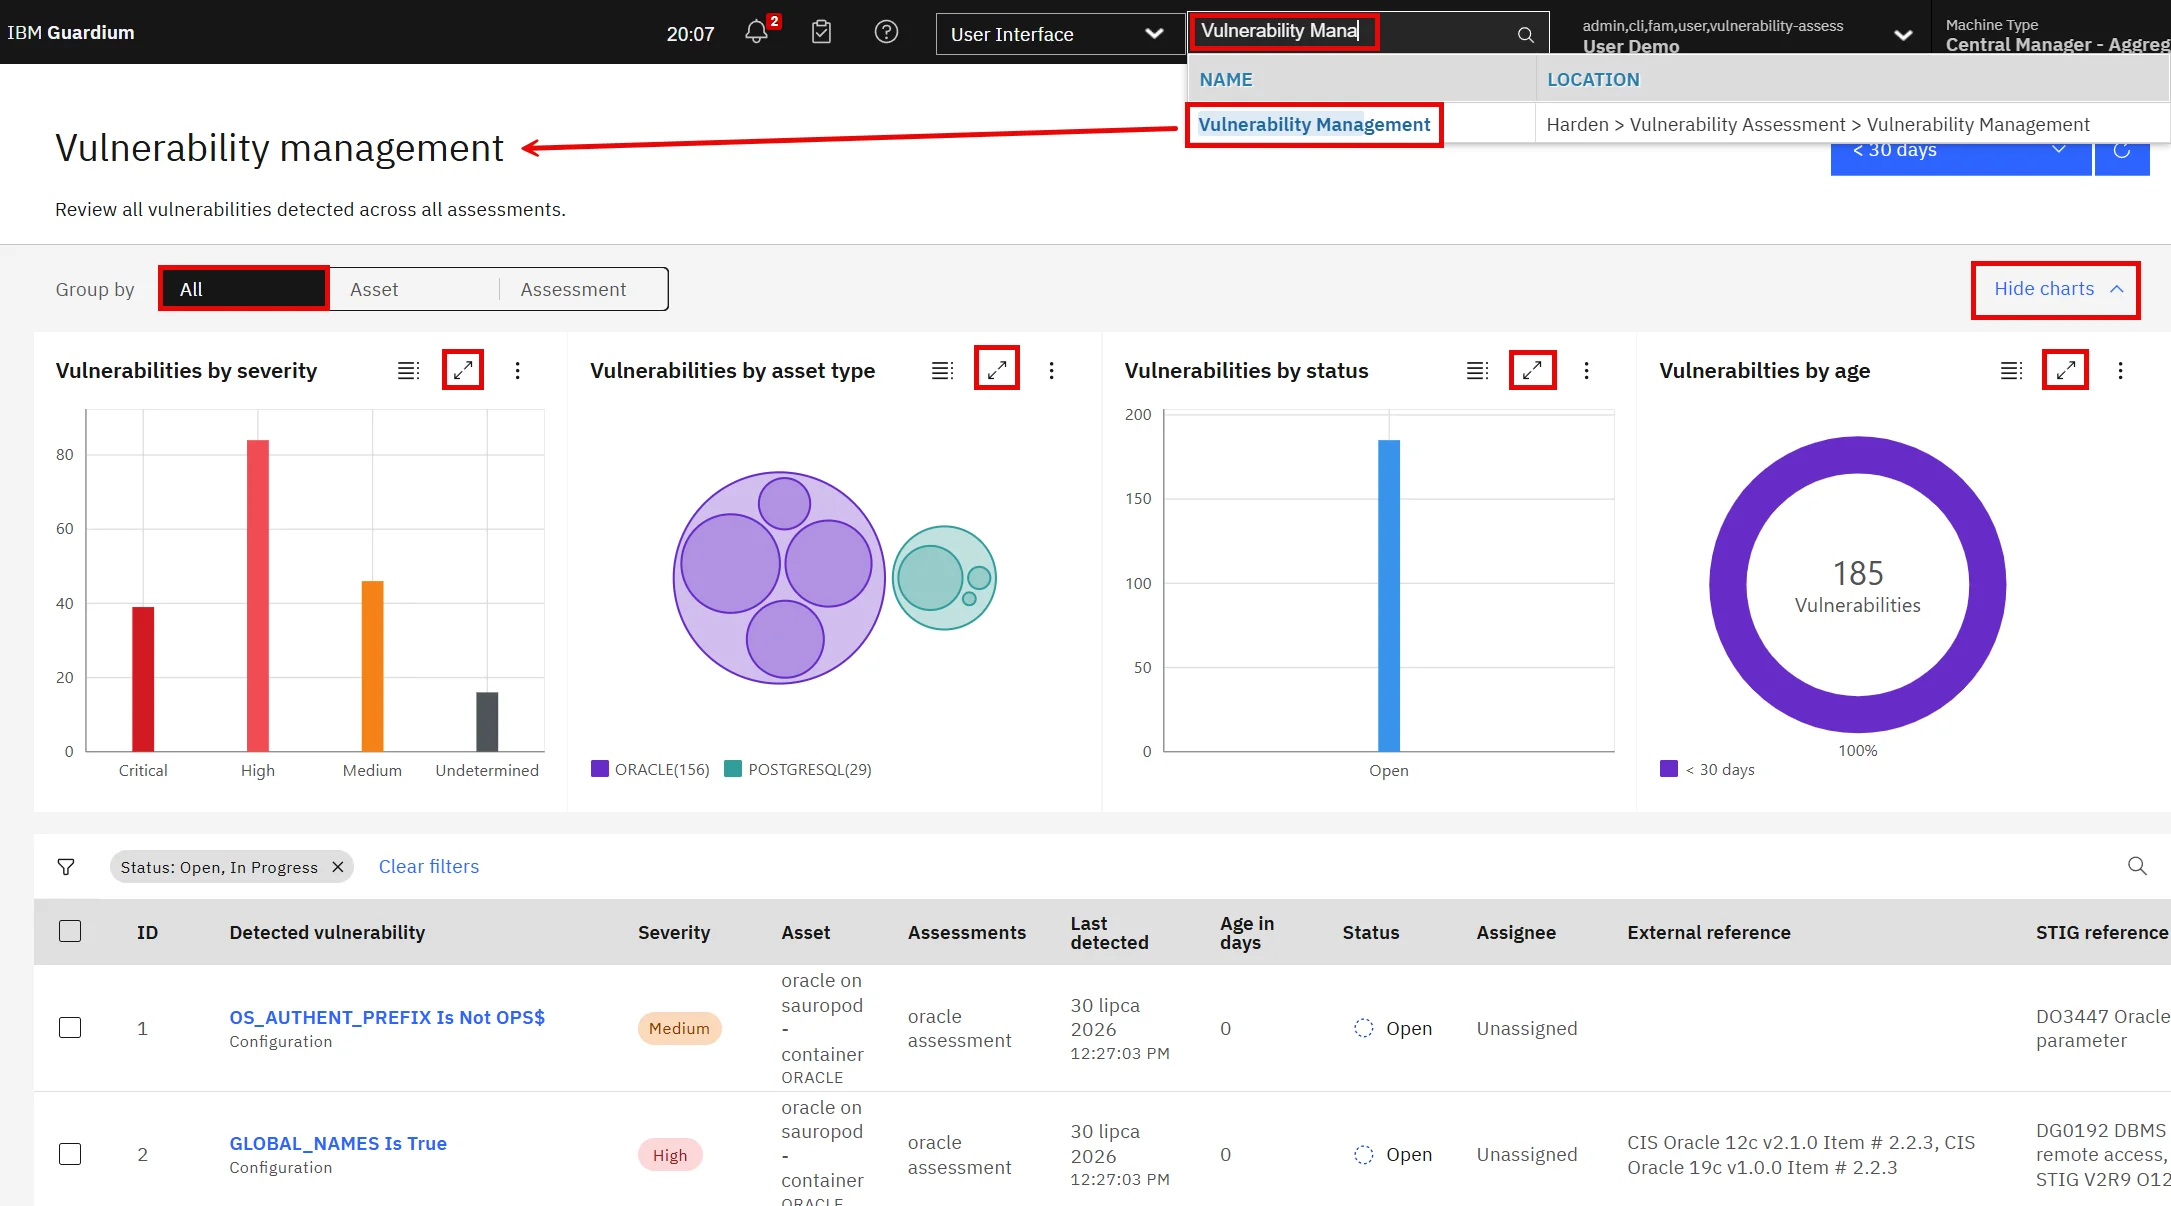
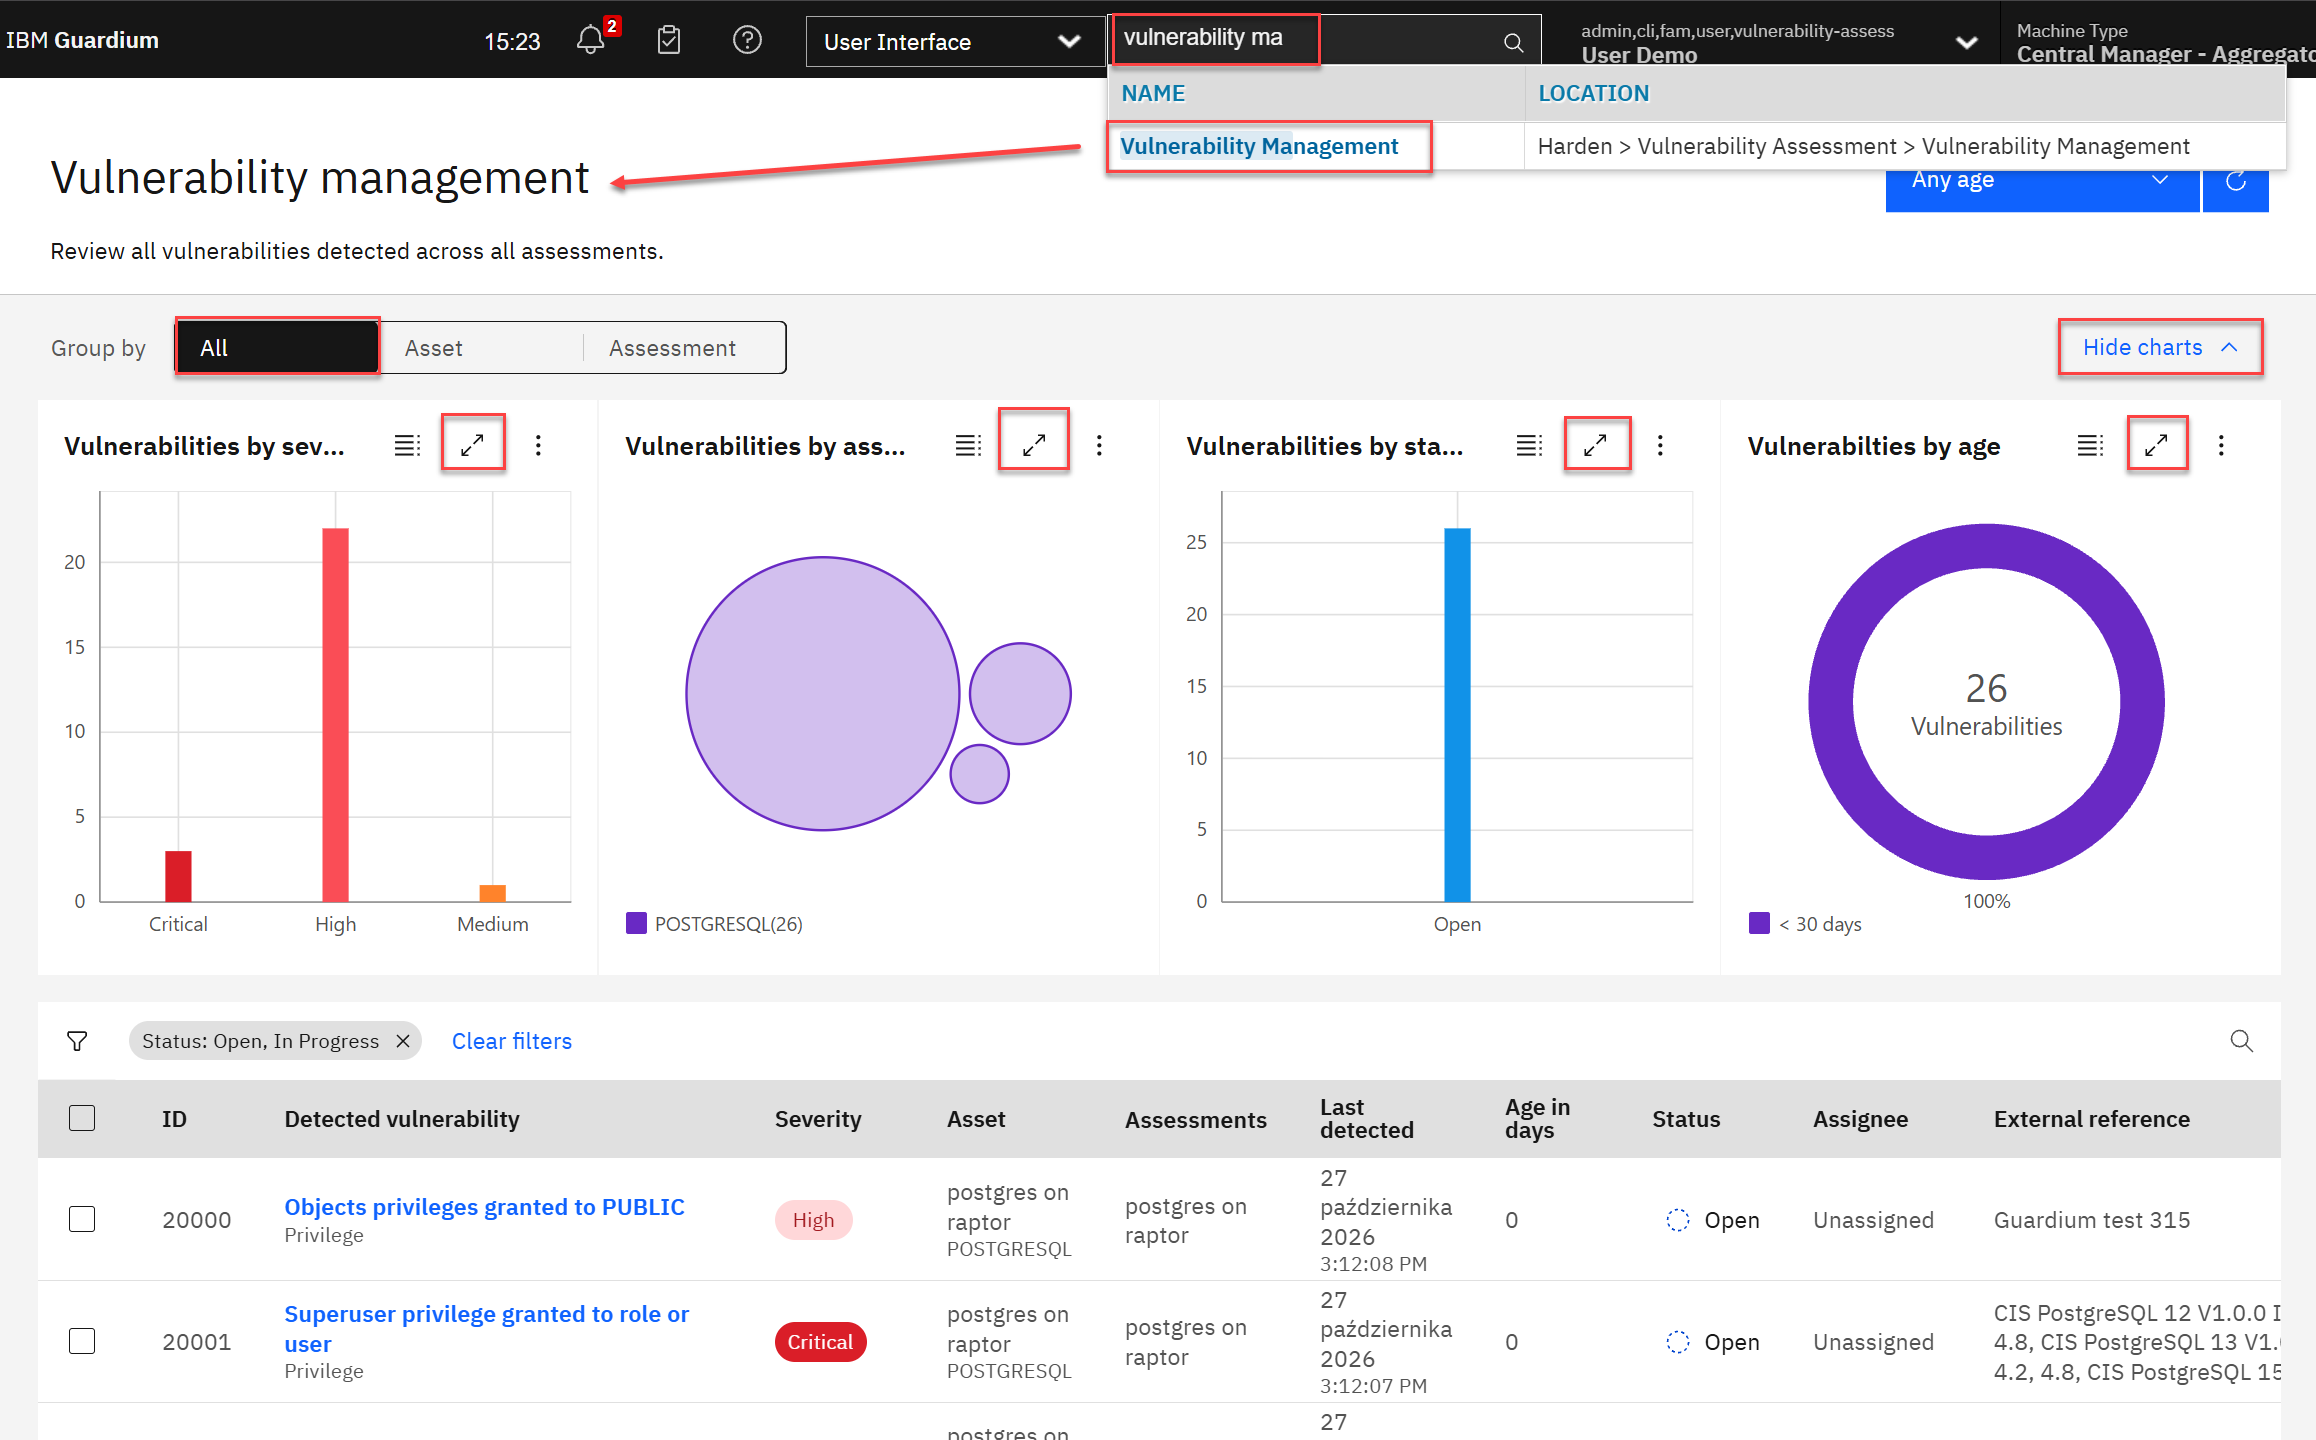
new file:   docs/images/va37_v15.webp 	modified:   docs/images/va46.webp 	modified:   docs/images/va47.webp 	new file:   docs/images/va50.webp 	new file:   docs/images/va51.webp 	new file:   docs/images/va52.webp 	new file:   docs/images/va53.webp 	new file:   docs/images/va54.webp 	new file:   docs

diff --git a/docs/v15/va.md b/docs/v15/va.md
@@ -1,0 +1,303 @@
+# Vulnerability Assessement configuration
+
+## VA Feature Flag
+
+1.	Starting with version **12.2**, some **Guardium** features must be enabled through a mechanism called *feature flags*. Activating a *feature flag* is a two-step process. First, the appropriate feature options file must be loaded, which has already been completed in our environment.
+![TZ requests](../images/va1.webp){ width="99%" }
+ 
+1.	To activate the *feature flag*, run the following command from the **cm** cli. The *VULNERABILITY_MANAGEMENT* flag enables an additional UI view that will be used in the later sections of this lab.
+```bash
+grdapi enable_disable_feature_flag flagName=VULNERABILITY_MANAGEMENT action=enable
+```
+1.	And confirm operation
+```bash
+grdapi list_feature_flags
+```
+![TZ requests](../images/va2.webp){ width="99%" }
+
+## Update VA tests
+
+1.	From browser go to *Fix Central* (<https://ibm.com/support/fixcentral/>) and look for *DPS* updates for **Guardium 12.2**
+![TZ requests](../images/va3.webp){ width="99%" }
+ 
+1.	In *DPS* section locate the latest quarter update (position 4 in my case, Q4’25 update) and the latest *Rapid Response* update (if exists) related to quarter one (position 1 my case). Download this/these file/files.
+![TZ requests](../images/va4.webp){ width="99%" }
+
+1.	Unpack zip file/files. Inside each archive you should have file with `enc` extension.
+![TZ requests](../images/va5.webp){ width="99%" }
+
+1.	Open **Customer Uploads** view on **cm** and press **Browse** button. Select quartely *DSP* update file and then use **Upload** button to load it to the engine.
+![TZ requests](../images/va6.webp){ width="99%" }
+
+1.	Import *DPS* section will be refreshed and the uploaded file should appear. Press the ![TZ requests](../images/va7.webp){ width="20" } icon to start *DPS* import – popup with message “*Import DPS is in progress …*” should appear (wait a while to get pop-up). Close it and wait for next pop-up. It can takes even few minutes.
+![TZ requests](../images/va8.webp){ width="99%" }
+1.	Accept the second pop-up with information that *DPS* import started and notice that message below of *DPS Upload* section is changed and refers to new *DPS* file and informs that process is running. If message will not appear, refresh browser tab and check it again.
+![TZ requests](../images/va9.webp){ width="99%" }
+
+1.	You can go back to **Customer Upload** view after few minutes and notice that *DPS import* process finished successfully. You can continue lab; there is no demand to have the latest updates. Sometimes *DPS import* takes hours.
+![TZ requests](../images/va10.webp){ width="69%" }
+ 
+1.	If you have Rapid Response update repeat the upload procedure for it according to steps from **4** to **7**. You process the rapid update when quarter one is correctly imported
+
+## VA roles scripts
+
+1.	Connect to **cm** cli and execute command to start a web based **fileserver** with access to files stored on appliance filesystem. The command parameters are: an *IP address* which points that connection will be possible only from our windows machine and the second one sets that service will be automatically shutdown *after 1 hour*. Do not press ++enter++ when **fileserver** will be started.
+```bash
+fileserver <ceratops_ip> 3600
+```
+![TZ requests](../images/va11.webp){ width="99%" }
+ 
+1.	In **RDP** session on **ceratops** start browser and go to URL – <https://cm.demo.guardium:8445>
+![TZ requests](../images/va50.webp){ width="79%" }
+ 
+1.	Select *Access logs* and move to `log/debug-logs/gdmonitor_scripts` directory. This folder contains the scripts to create access role for all supported by VA databases. Find `gdmmonitor-postgres.sql` and click it to download the linked file.
+![TZ requests](../images/va51.webp){ width="99%" }
+ 
+1.	In the **Windows Explorer** go to *Downloads* directry and open just downloaded file using **Notepad**.
+![TZ requests](../images/va52.webp){ width="99%" }
+
+1. For *PostgreSQL*, the script contains a simple definition of the **gdmmonitor** group with a privilege that allows it to retrieve configuration settings. For other database platforms, the script may be more complex. However, the goal remains the same: provide sufficient permissions to perform vulnerability assessments while following the least-privilege principle and avoiding excessive privileges.
+![TZ requests](../images/va53.webp){ width="99%" }
+
+1.	Back to **cm** cli session and stop **fileserver** – press ++enter++ in the ssh session.
+	
+## Configure VA technical account
+
+1.	On **raptor** connect to *PostreSQL* as superuser and create a new user account (**sqlguard**) and a new group (**gdmmonitor**) (set your own password!). Assign to the group limited rights to read database configuration only (based on script reviewed above).
+```sql linenums="1"
+su - postgres
+
+psql
+
+CREATE USER sqlguard WITH ENCRYPTED PASSWORD '<your_password>';
+
+CREATE GROUP gdmmonitor;
+
+ALTER GROUP gdmmonitor ADD USER sqlguard;
+
+GRANT pg_read_all_settings TO gdmmonitor;
+
+GRANT SELECT ON pg_authid TO gdmmonitor;
+
+\q
+
+exit
+```
+
+## Configure VA for PostgreSQL
+
+1.	Open Datasource Definitions and click :material-plus-circle: to add a new datasource.
+![TZ requests](../images/va55.webp){ width="99%" } 
+
+1. Create a new datasource for VA named **postgres on raptor** using the parameters below. Then click **Save** to save the datasource and enable **Test Connection** button. Test the connection and verify that the following message appears:  *:material-checkbox-marked-circle: Connection successful*. Finally, **Close** the window.
+
+    !!! note "datasource definition:"
+        - Application type: **Security Assessment**
+        - Name: **postgres on raptor**
+        - Database type: **PostgreSQL**
+        - Share datasource: :material-checkbox-marked:
+        - Credential type: **Assign credentials**
+        - User name: **sqlguard**
+        - Password: **&lt;define in the previous task>**
+        - Host name/IP: **raptor.demo.guardium**
+        - Port number: **5432**
+        - Database: **postgres**
+
+    ![TZ requests](../images/va56.webp){ width="79%" } 
+
+1. The newly created datasource should now appear in the Datasource Definitions list.
+![TZ requests](../images/va57.webp){ width="99%" } 
+
+2. Open **Assessment Builder** (Security sssessments) view on **cm** and **Create assessment** definition.
+![TZ requests](../images/va54.webp){ width="99%" } 
+
+1.	Insert values listed below and press **Next** button.
+
+    !!! note ""
+        - Name: **postgres on raptor**
+        - Datasource type: **POSTGRESQL**
+        - Automatically add all future CVE or APAR tests after DPS uploaded: :material-checkbox-marked:
+![TZ requests](../images/va58.webp){ width="99%" }
+ 
+1. In the **Add Datasources** section, click **Add datasource**. Select the newly created **postgres on raptor** datasource definition, then click **Add**.
+![TZ requests](../images/va59.webp){ width="99%" }
+
+1.	The selected datasource should now appear in the **Create assessment** view. Click **Next** to continue.
+![TZ requests](../images/va60.webp){ width="99%" }
+ 
+1.	To select the tests to include in the assessment, click **Add tests**.
+![TZ requests](../images/va61.webp){ width="99%" }
+ 
+1.	The new view displays all tests available for the database type associated with the selected datasource. In this case, the available *PostgreSQL* tests are displayed. To select all available tests, select the checkbox next to *Test ID* <span class="mb">1</span>, then click **Select all** <span class="mb">2</span>.
+![TZ requests](../images/va62.webp){ width="99%" }
+ 
+1.  All available tests are now selected. Click **Add** to confirm your selection.
+![TZ requests](../images/va63.webp){ width="99%" }
+
+1.	The **Create assessment** view should now display the selected tests. Click **Create** to save the new VA configuration.
+![TZ requests](../images/va64.webp){ width="99%" }
+ 
+1.	To execute just created *assessment*, press run :material-play-circle: icon. The pop-up will inform that we just started *assessment instance* and its execution can be monitored in *Guardium Job Queue* report.
+![TZ requests](../images/va65.webp){ width="99%" }
+ 
+1.  The status of the running assessment can be monitored directly in the current view. Click :material-refresh: to confirm that the assessment has completed.
+![TZ requests](../images/va66.webp){ width="99%" }
+
+1.	To review the results, use the actions menu :material-dots-vertical: icon and select **View scan results**.
+![TZ requests](../images/va67.webp){ width="99%" }
+
+1.	Review *VA assessment* report and close it.
+![TZ requests](../images/va27.webp){ width="99%" }
+
+## Findings remediation
+
+1.	In **cm** UI open again the result set from the last *PostgreSQL* assessment. Press **View Result** when vulnerability assessment - **postgres on raport** is selected.
+![TZ requests](../images/va67.webp){ width="99%" }
+
+1.	Look for test – *Ensure the pgcrypto extension is installed*. This extension allows implement column based data encryption. Unfortunately, it is not enabled in our **raptor** *PostgreSQL instance*.
+![TZ requests](../images/va28.webp){ width="99%" } 
+
+1.	To enable the functionality mentioned in the test, log in on **raptor** to the database and execute the **CREATE EXTENSION** statement.
+```sql
+su - postgres
+
+psql
+
+CREATE EXTENSION IF NOT EXISTS pgcrypto;
+
+/q
+
+exit
+```
+
+1.	Run again our **postgres on raptor** *VA assessment* and wait for execution completeness.
+ ![TZ requests](../images/va65.webp){ width="99%" }
+ 
+
+1.	Open assessment results and notice that Test passing result has been changed. To find a difference you can press **Compare with other results** link and select previous execution with lower score. Press **Go** button.
+![TZ requests](../images/va31.webp){ width="99%" }
+
+1.	Displayed pop-up report identifies that now *pgcrypto* library test has been passed.
+![TZ requests](../images/va32.webp){ width="99%" }
+	
+## Setup remote VA scanner (optional)
+
+1.	Open the **Security assessments** list again, from the actions menu :material-dots-vertical: and select **Run on scanner**.
+![TZ requests](../images/va68.webp){ width="99%" }
+
+1. After a while, the status of the assessment **postgres on raptor** will change *Status* to **In-progress**. This is expected behavior, as the *VA Scanner* has not been deployed yet.
+![TZ requests](../images/va69.webp){ width="99%" }
+
+1.	Open **VA Scanner Job Queue** view and notice that a new task is scheduled and it is **WAITING** for execution. In this case the task will be served by remote scanner which we must deploy first.
+![TZ requests](../images/va34.webp){ width="99%" }
+ 
+1.	To deploy scanner we need two pieces of information. First one is *VA appliance UI certificate*. In our case we are using **cm** for *VA*, so let us get it public certificate. On **sauropod** execute these commands:
+```bash linenums="1"
+mkdir -p /opt/vascanner/certs
+
+openssl s_client -connect cm.demo.guardium:8443 -showcerts </dev/null 2>/dev/null|openssl x509 -outform PEM > /opt/vascanner/certs/vascanner.pem
+```
+
+1.	The `vascanner.pem` file should look like shown below:
+```bash 
+cat /opt/vascanner/certs/vascanner.pem 
+```
+![TZ requests](../images/va37_v15.webp){ width="79%" }
+ 
+1.	Login to **cm** cli and create a new *API key* for *vascanner*.
+```bash
+grdapi create_api_key name=vascanner
+``` 
+![TZ requests](../images/va38.webp){ width="99%" }
+Write down the encoded API key, we need it soon.
+
+1.	On **sauropod** login to the *IBM container registry* and check. The entitlement key is available in the `container_registry.txt` file in training materials.
+```bash
+podman login cp.icr.io -u cp -p <ibm_registry_key>
+```
+![TZ requests](../images/va39.webp){ width="99%" }
+ 
+1.	Pull *VA scanner* image on **sauropod**.
+```bash
+podman pull cp.icr.io/cp/ibm-guardium-data-security-center/guardium/vascanner-12.2.0/va-scanner:vascanner-v12.2.0
+```
+![TZ requests](../images/va40.webp){ width="99%" }
+
+1.	Check that image is correctly pulled and wrote down information about *image id*.
+```bash
+podman images
+```
+![TZ requests](../images/va41.webp){ width="99%" }
+ 
+1.	Create config file in the `/opt/vascanner/config` on **sauropod**.
+
+    !!! note "Inside 4 variables must be set like that:"
+        - GDP_HOST=**cm.demo.guardium**
+        - GDP_HOST_PORT=**8443**
+        - CLIENT_API_KEY=&lt;encoded API Key from point 8>
+        - VA_AGENT_NAME=**VA_SCANNER_ON_SAUROPOD**
+
+    ![TZ requests](../images/va42.webp){ width="89%" }
+ 
+1.	Now we are ready to start a *scanner* (insert correct *image id*)
+```bash
+podman run --network host -d --replace --env-file /opt/vascanner/config --name va-scanner-sauropod -v /opt/vascanner/certs:/var/vascanner/certs <image ID from point 9>
+```
+
+1.	You can monitor the container status using:
+```bash
+podman ps -a
+```
+![TZ requests](../images/va43.webp){ width="99%" }
+After one minute, even less, the container will stop working (it is expected).
+ 
+1.	Check again the **VA Scanner Job Queue** view in **cm** UI and notice that job is completed and result set is consumed by *VA engine*.
+![TZ requests](../images/va44.webp){ width="99%" }
+
+1.  The status in **Security assessments** should also confirm that the requested assessment completed successfully.
+![TZ requests](../images/va70.webp){ width="99%" }
+
+1.	You can also check container logs on sauropod/
+```bash
+podman logs va-scanner-sauropod
+```
+![TZ requests](../images/va45.webp){ width="99%" }
+
+## VA findings dashboard
+
+1.	If the **VULNERABILITY_MANAGEMENT** *feature flag* is enabled on the **cm**, a new **Vulnerability Management** view becomes available. This view provides a quick overview of the security posture of the monitored database engines and centralizes vulnerability assessment findings. The charts provide a visual overview of the identified findings, categorized by critical, high, and other severity levels, as well as grouped by database engine type. Below the charts, you can review the findings in greater detail and examine the specific issues detected by the assessment.
+![TZ requests](../images/va46.webp){ width="99%" }
+ 
+1.	Selecting a test result from the list opens detailed information about the issue, including remediation guidance, and also allows you to add comments.
+![TZ requests](../images/va47.webp){ width="99%" }
+
+1.  To see remediated issue with missing encryption plugin **Clear filters** applied in the view.
+![TZ requests](../images/va71.webp){ width="99%" }
+
+1.  You can now see all available tests and apply a filter using the :material-filter: icon. Under *Status*, select **Fixed** and **Apply**.
+![TZ requests](../images/va72.webp){ width="99%" }
+
+1.  To see remediated issue with missing encryption plugin **Clear filters** applied in the view.
+![TZ requests](../images/va73.webp){ width="99%" }
+
+<!-- 
+BUG IN 12.2.4
+1.	The new view can also be used to manage the remediation process by updating the finding status and assigning remediation tasks or other actions to users with Guardium accounts. This lightweight workflow can be a good fit for smaller organizations or serve as a temporary solution before implementing a full-scale remediation process based on exceptions and formal workflow management.
+![TZ requests](../images/va48.webp){ width="99%" }
+
+1.	Findings can also be reviewed from the perspective of configured data sources (assets) or by examining the results of individual vulnerability assessment processes that have been configured and executed.
+![TZ requests](../images/va49.webp){ width="99%" } -->
+
+## Appendix
+
+!!! note "Dependencies:"
+    Deliverables from this lab are referred in other, it should be fully followed.
+
+!!! note "Resources:"
+    - Registry entitlement (use own or ask instruktor to provide one) <https://myibm.ibm.com/products-services/containerlibrary>
+    
+!!! note "Instructor notes:"
+
+ 
+
+

diff --git a/docs/v15/etap.md b/docs/v15/etap.md
@@ -39,7 +39,7 @@ exit;
 
 ## Docker preparation
 
-1.	Install `podman-docker` and `skopeo` packages.
+1.	Install `podman-docker` and `skopeo` packages on raptor.
 ```bash
 dnf -y install podman-docker skopeo
 ```
